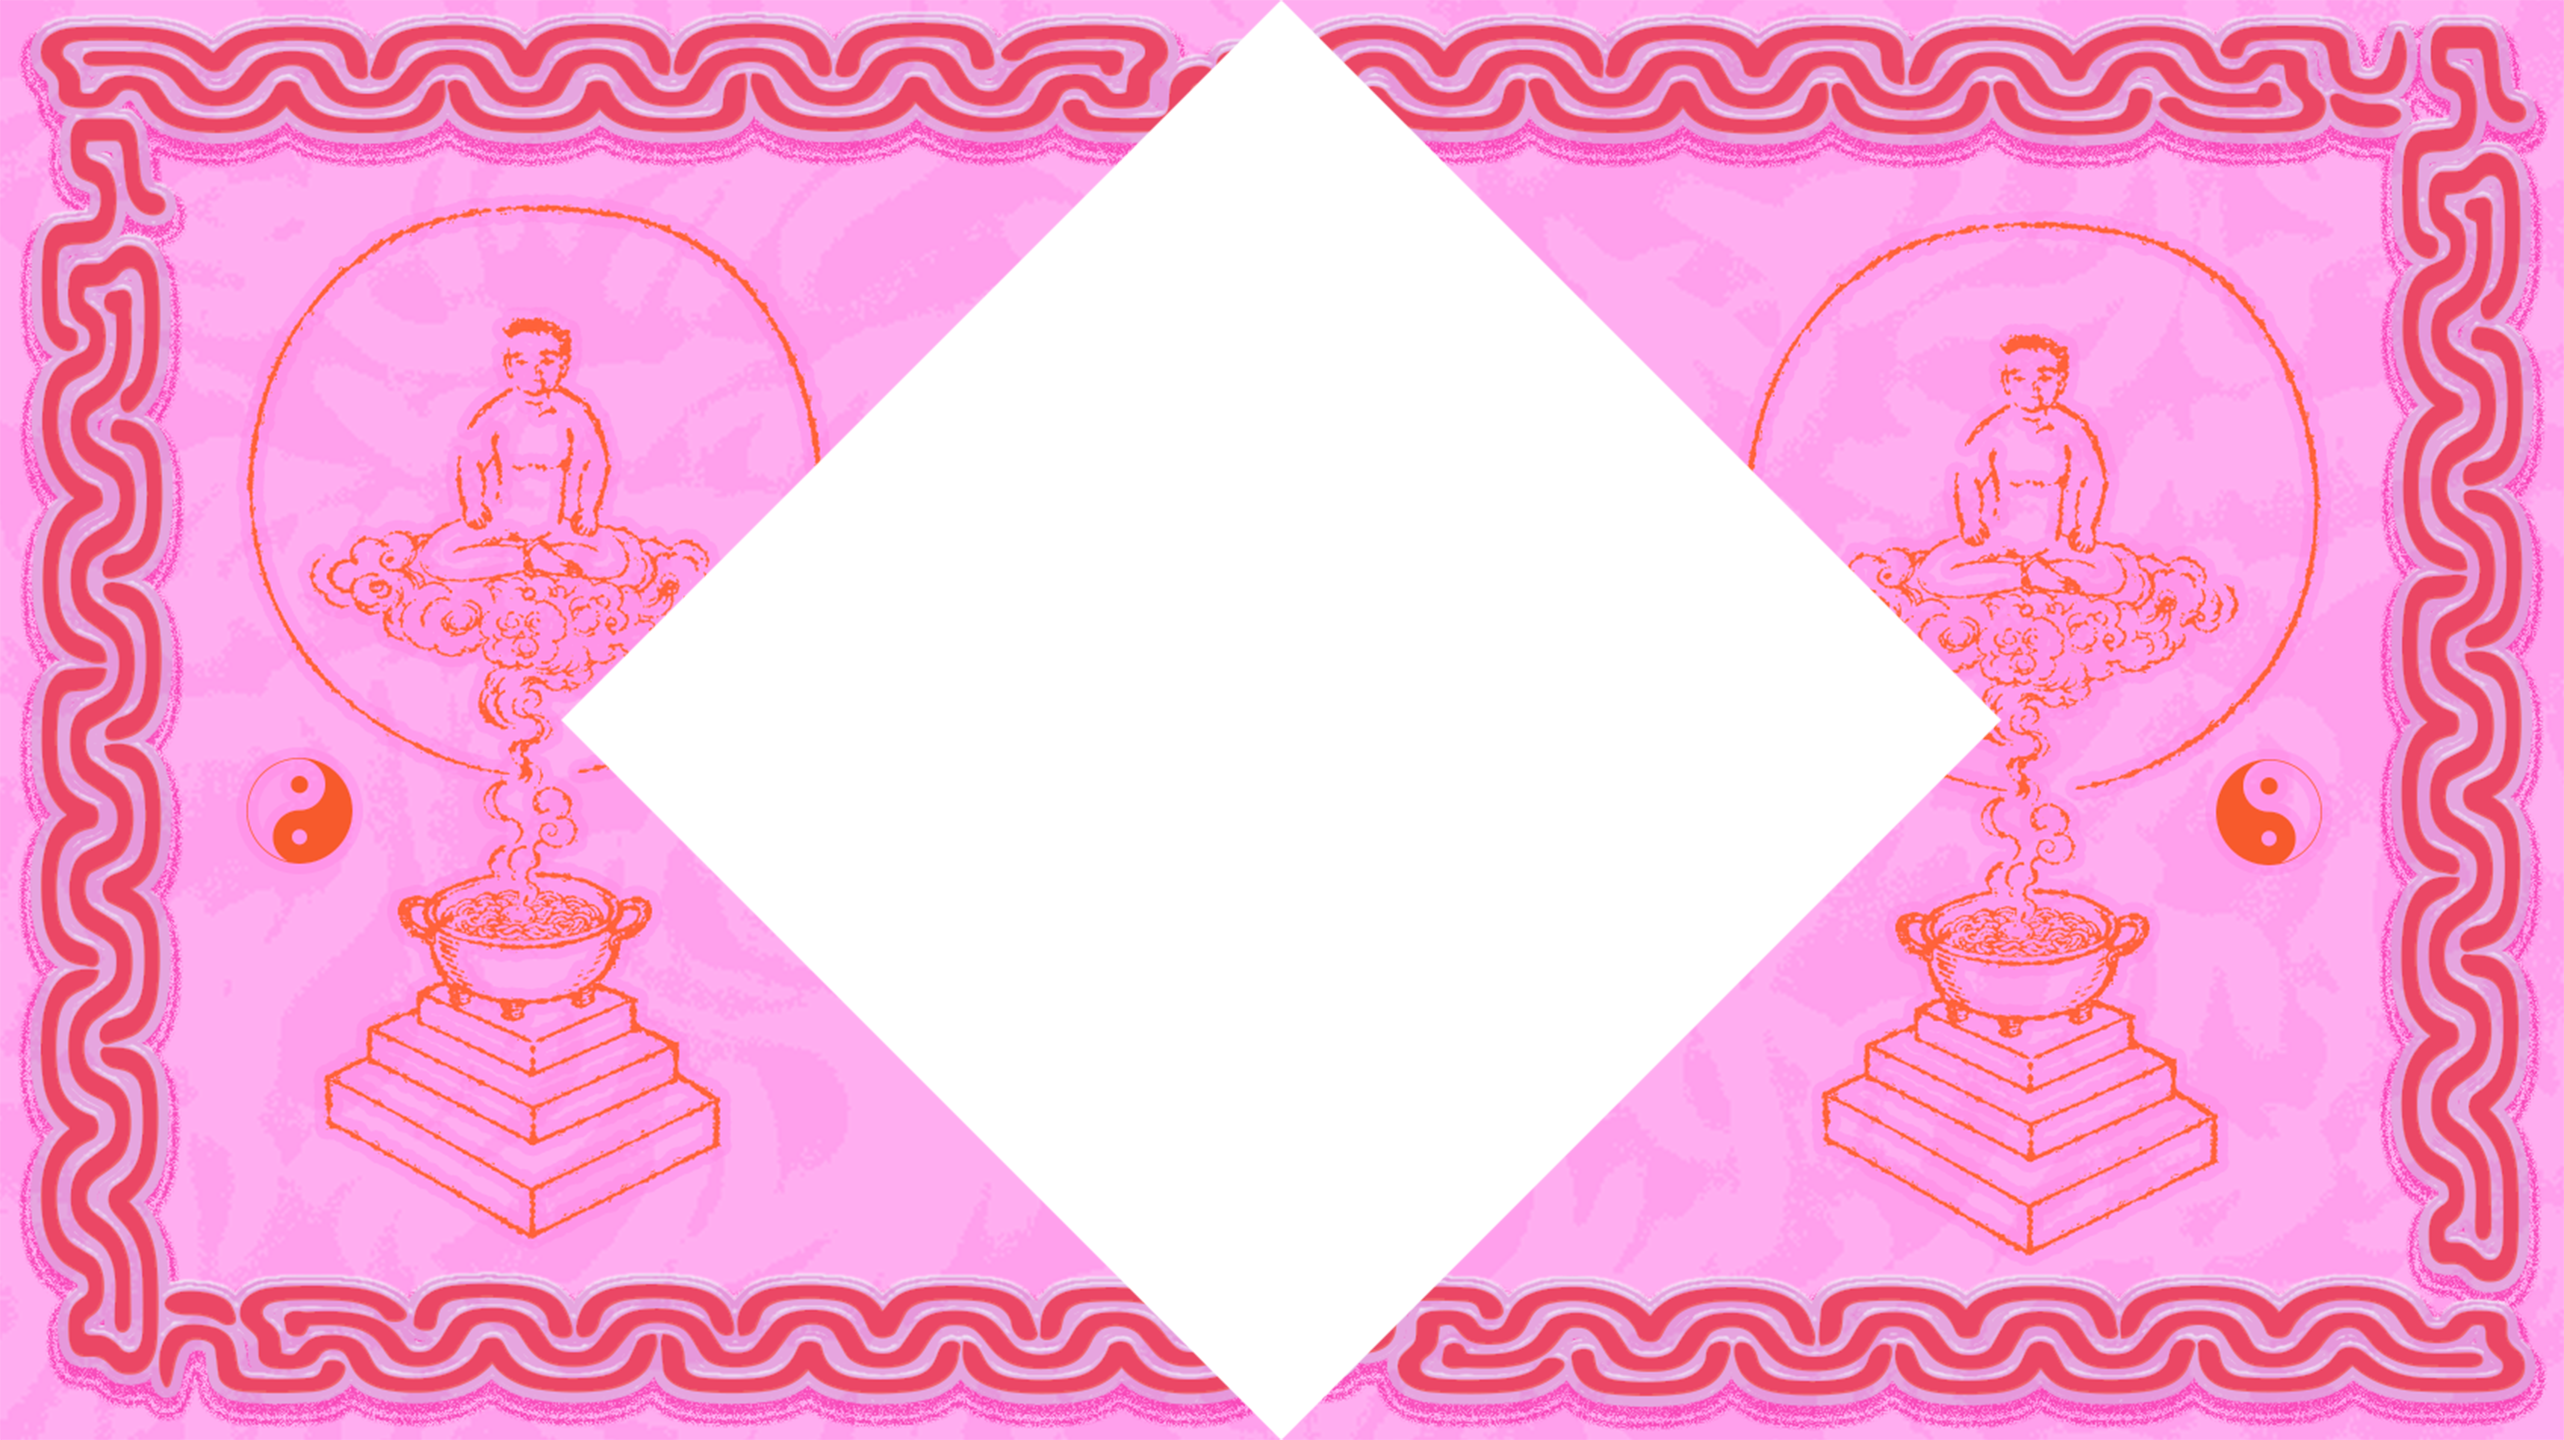
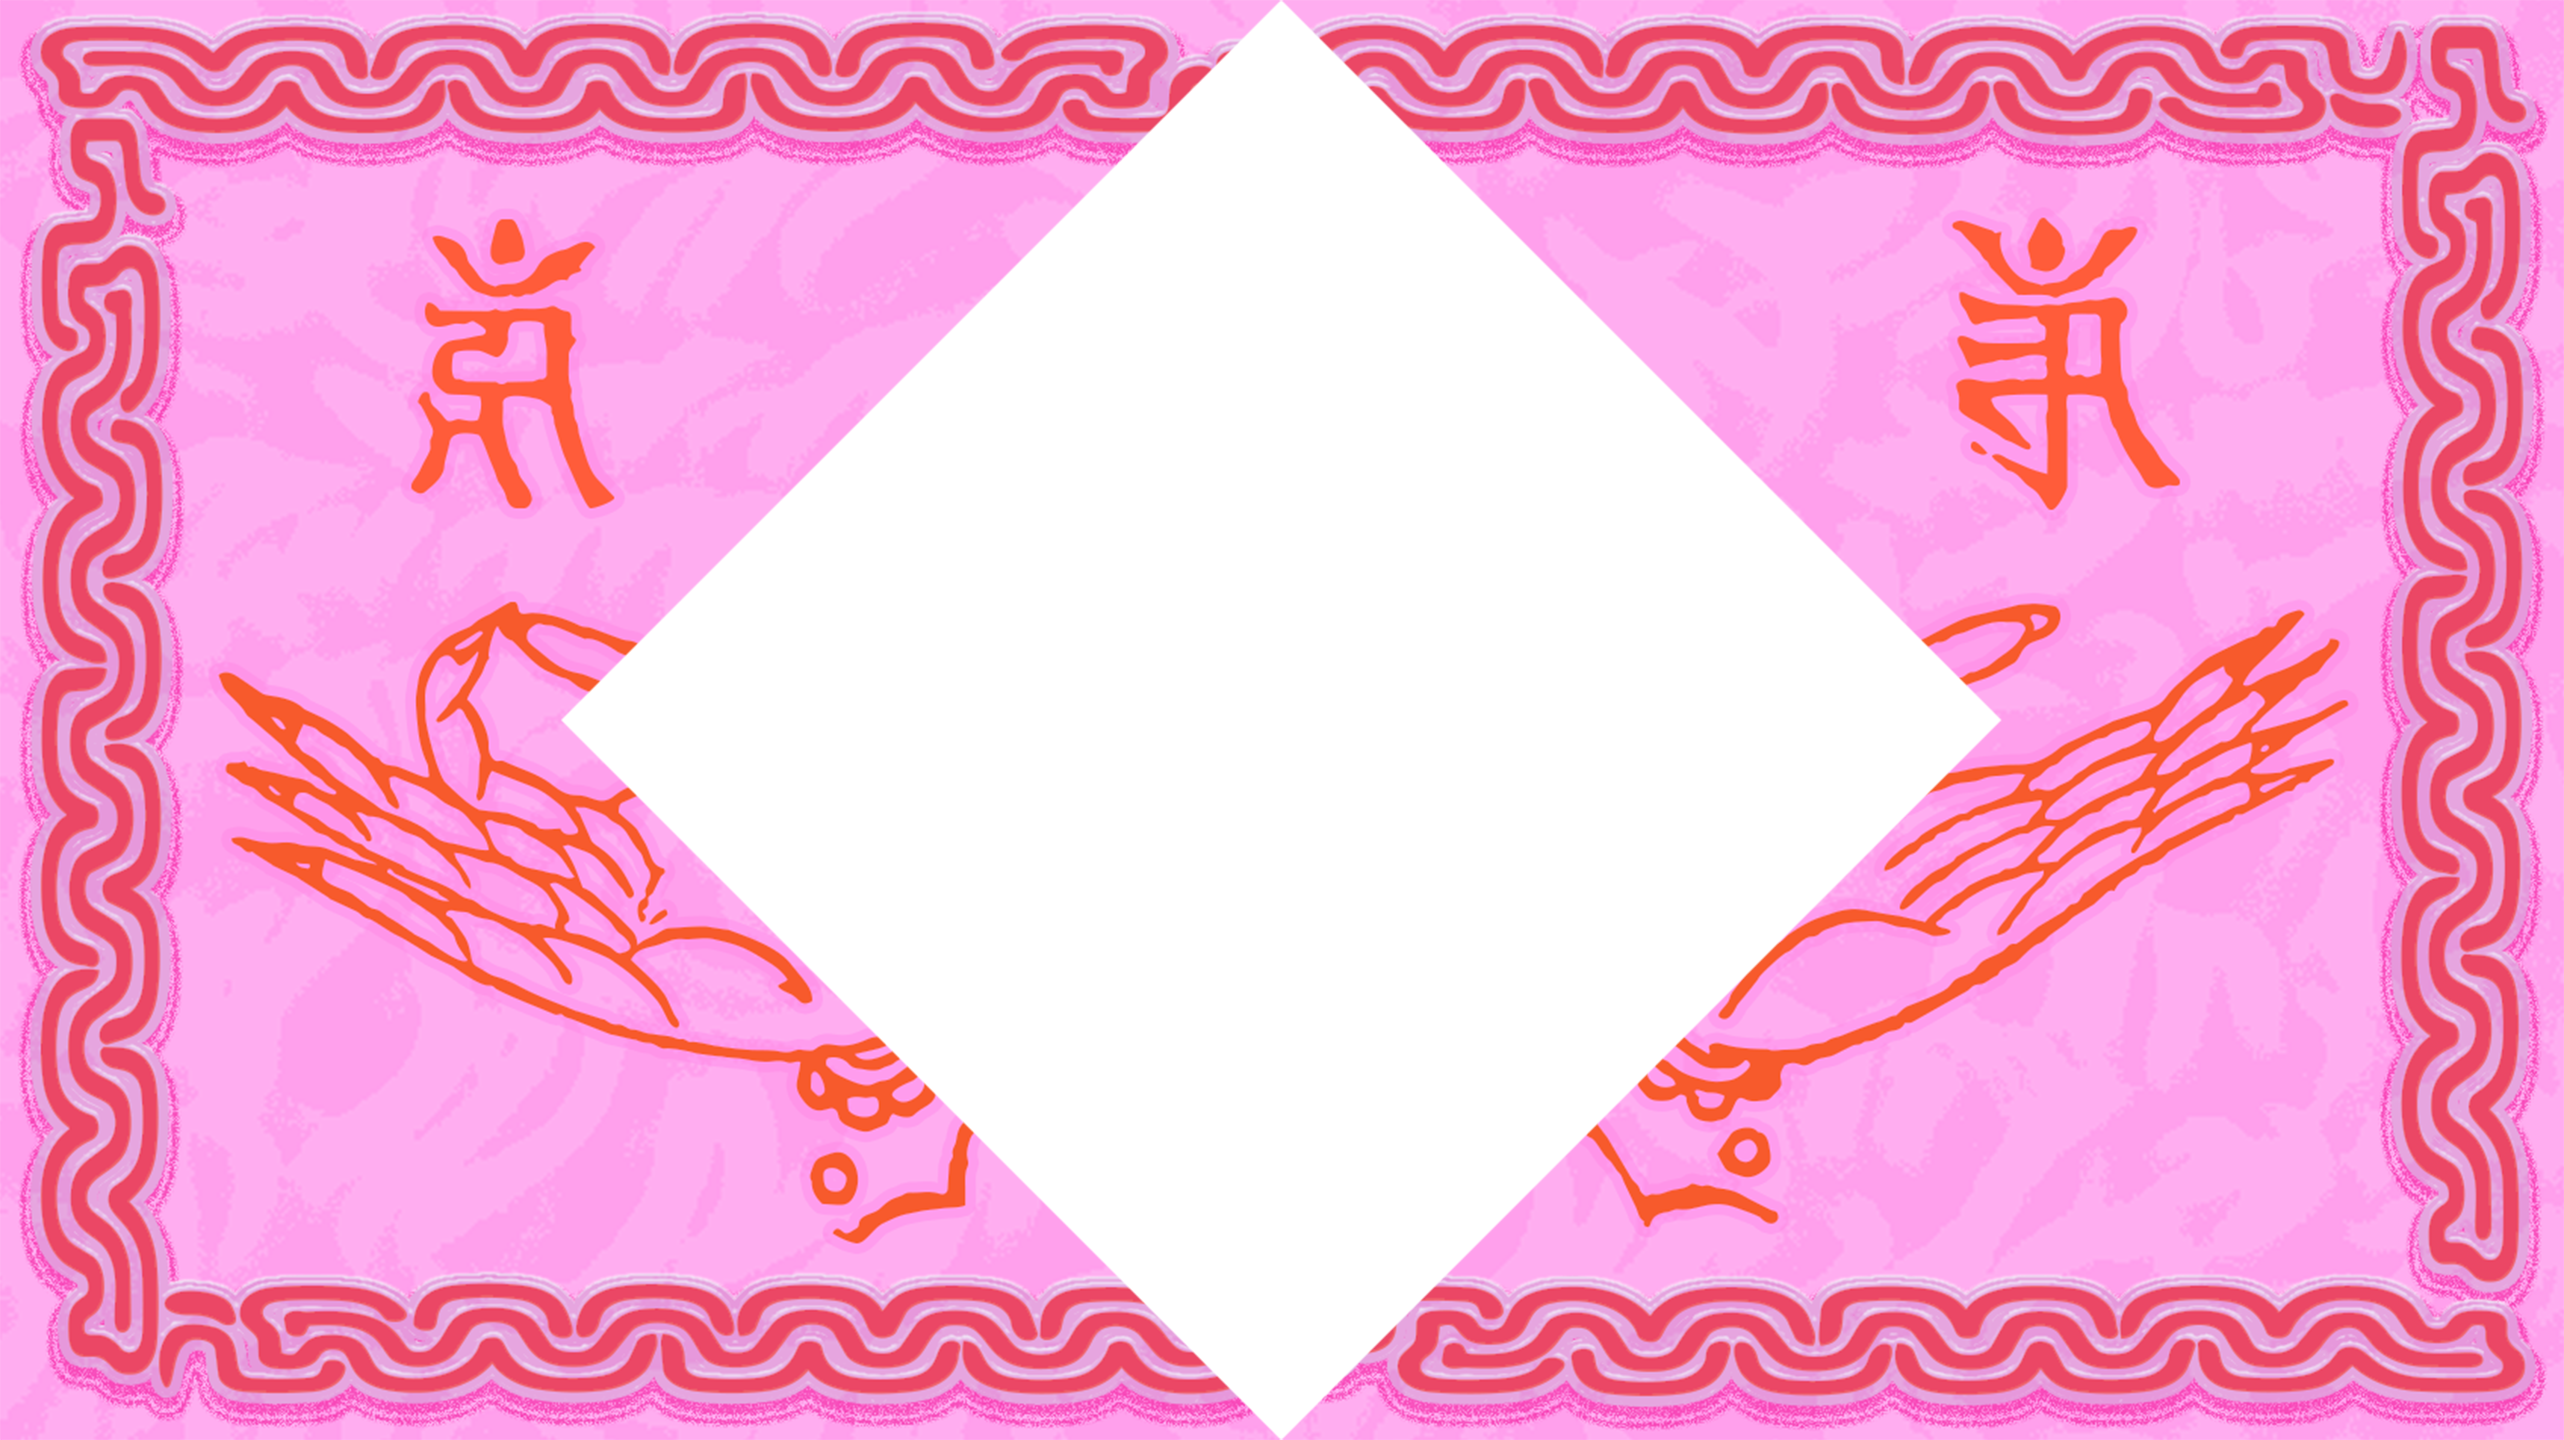
pg2/pg3 이미지 교체 반영, 0페이지(태극) 추가로 한자 페이지 1칸 밀기

diff --git a/index_1.html b/index_1.html
@@ -4,7 +4,7 @@
 <head>
 <meta charset="UTF-8">
 <meta name="viewport" content="width=device-width, initial-scale=1.0">
-<title>麵道 · 一</title>
+<title>麵道 · 0</title>
 <style>
   /* ===== 확정 수치 (27인치 5K 아이맥 기준) =====
      화면 표시영역 : 2560 x 1440 (CSS px)
@@ -54,13 +54,13 @@
   }
 
   #bg-next {
-    background: url('pg2.png') center / cover no-repeat;
+    background: url('pg3.png') center / cover no-repeat;
     opacity: 0;
     transition: opacity 650ms ease-in-out;
   }
 
   #bg-third {
-    background: url('pg3.png') center / cover no-repeat;
+    background: url('pg2.png') center / cover no-repeat;
     opacity: 0;
     transition: opacity 650ms ease-in-out;
   }
@@ -123,6 +123,19 @@
 
   #glyph-next {
     visibility: hidden;
+  }
+
+  /* 0페이지: 한자 대신 보이드 안에 표시되는 이미지(태극) */
+  .glyph.is-image img {
+    display: block;
+    position: absolute;
+    left: 50%;
+    top: 50%;
+    transform: translate(-50%, -50%);
+    width: 460px;
+    height: 460px;
+    object-fit: contain;
+    filter: drop-shadow(0 0 18px rgba(244,91,168,0.55)) drop-shadow(0 0 44px rgba(244,91,168,0.35));
   }
 
   #glyph-scene.is-rolling .glyph { animation: none; }
@@ -227,40 +240,68 @@
     '四': { ox:  0, oy:  0 },
   };
 
-  function setGlyph(char, elementId = 'glyph') {
+  // 페이지별 보이드 콘텐츠: 0페이지는 한자 대신 태극 이미지
+  const PAGE_CONTENT = {
+    0: { type: 'image', src: 'yinandyang.png' },
+    1: { type: 'text',  char: '一' },
+    2: { type: 'text',  char: '二' },
+    3: { type: 'text',  char: '三' },
+    4: { type: 'text',  char: '四' },
+  };
+
+  function setGlyph(page, elementId = 'glyph') {
     const el = document.getElementById(elementId);
-    el.textContent = char;
-    const { ox = 0, oy = 0 } = OFFSETS[char] ?? {};
-    el.style.setProperty('--ox', ox + 'px');
-    el.style.setProperty('--oy', oy + 'px');
+    const content = PAGE_CONTENT[page];
+
+    if (content.type === 'image') {
+      el.classList.add('is-image');
+      el.textContent = '';
+      el.style.setProperty('--ox', '0px');
+      el.style.setProperty('--oy', '0px');
+      let img = el.querySelector('img');
+      if (!img) {
+        img = document.createElement('img');
+        el.appendChild(img);
+      }
+      img.src = content.src;
+    } else {
+      el.classList.remove('is-image');
+      el.textContent = content.char;
+      const { ox = 0, oy = 0 } = OFFSETS[content.char] ?? {};
+      el.style.setProperty('--ox', ox + 'px');
+      el.style.setProperty('--oy', oy + 'px');
+    }
   }
 
-  // 초기 글자 세팅
-  setGlyph('一');
-  setGlyph('二', 'glyph-next');
+  function titleGlyph(page) {
+    const content = PAGE_CONTENT[page];
+    return content.type === 'text' ? content.char : String(page);
+  }
+
+  // 초기 콘텐츠 세팅: 0페이지(태극)에서 시작
+  setGlyph(0);
+  setGlyph(1, 'glyph-next');
 
   // ── 페이지 전환: 배경 크로스페이드 + 위 방향 글리프 롤 ──
   const stage = document.getElementById('stage');
   const glyphScene = document.getElementById('glyph-scene');
   const glyph = document.getElementById('glyph');
   let isTransitioning = false;
-  let currentPage = 1;
-  let targetPage = 1;
+  let currentPage = 0;
+  let targetPage = 0;
 
   // 클릭 전에 다음 이미지들을 브라우저 캐시에 준비한다.
-  ['./pg2.png', './pg3.png', './pg4.png'].forEach((src) => {
+  ['./pg1.png', './pg2.png', './pg3.png', './pg4.png', './yinandyang.png'].forEach((src) => {
     const preload = new Image();
     preload.src = src;
   });
 
-  const PAGE_GLYPHS = { 1: '一', 2: '二', 3: '三', 4: '四' };
-
   function goToPage(page) {
-    if (isTransitioning || page === currentPage || !PAGE_GLYPHS[page]) return;
+    if (isTransitioning || page === currentPage || !PAGE_CONTENT[page]) return;
 
     isTransitioning = true;
     targetPage = page;
-    setGlyph(PAGE_GLYPHS[page], 'glyph-next');
+    setGlyph(page, 'glyph-next');
     stage.classList.toggle('is-page-2', page === 2);
     stage.classList.toggle('is-page-3', page === 3);
     stage.classList.toggle('is-page-4', page === 4);
@@ -276,6 +317,8 @@
     if (event.code === 'Space') {
       event.preventDefault();
       goToPage(currentPage + 1);
+    } else if (event.code === 'Digit0' || event.code === 'Numpad0') {
+      goToPage(0);
     } else if (event.code === 'Digit1' || event.code === 'Numpad1') {
       goToPage(1);
     } else if (event.code === 'Digit2' || event.code === 'Numpad2') {
@@ -290,11 +333,11 @@
   glyph.addEventListener('animationend', (event) => {
     if (!isTransitioning || event.animationName !== 'glyphOut') return;
 
-    setGlyph(PAGE_GLYPHS[targetPage]);
+    setGlyph(targetPage);
     glyphScene.classList.remove('is-rolling');
     isTransitioning = false;
     currentPage = targetPage;
-    document.title = `麵道 · ${PAGE_GLYPHS[currentPage]}`;
+    document.title = `麵道 · ${titleGlyph(currentPage)}`;
   });
 
   // ── 화면 크기에 맞춰 무대(2560x1440)를 비율 유지하며 꽉 차게 스케일 ──
